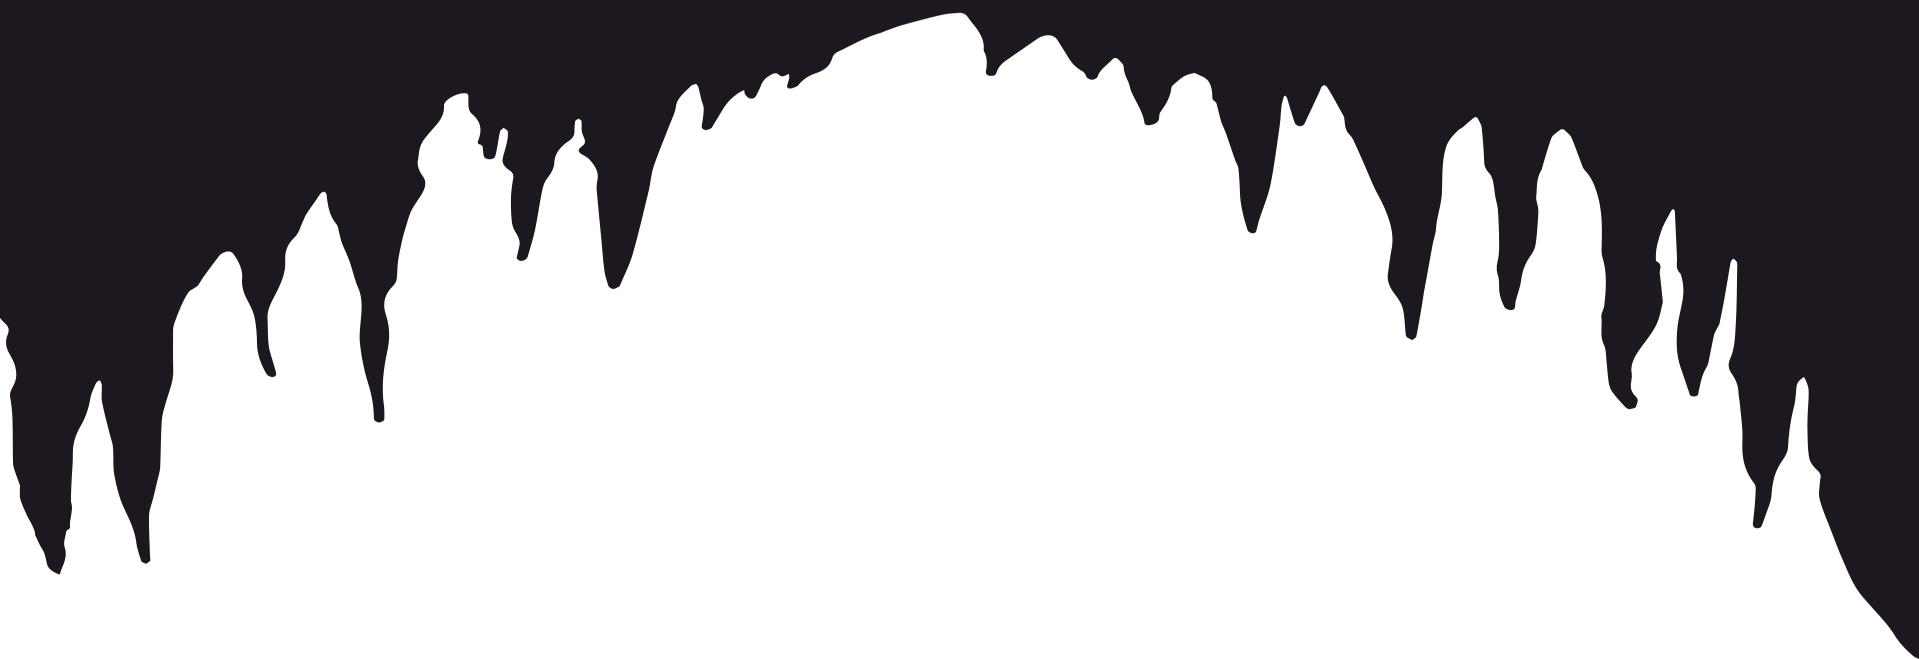
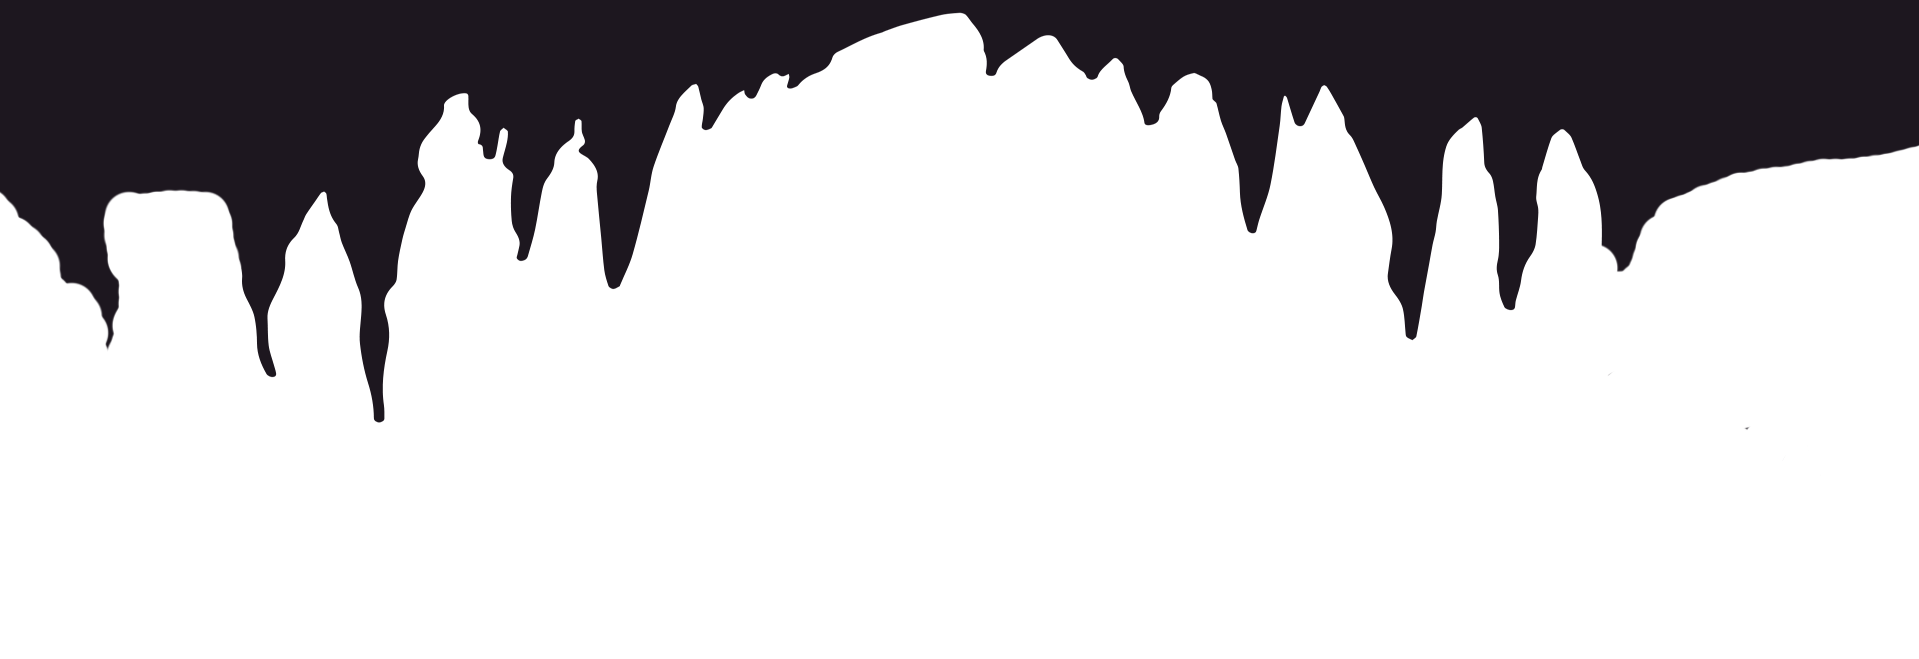
changed some caveular features

Changed region(s): [[0.8301, 0.2124, 1.0, 1.0], [0.0, 0.2731, 0.123, 0.8801]]

diff --git a/Combo/examples/mystyle.css b/Combo/examples/mystyle.css
@@ -177,7 +177,7 @@ background:#1d181f;
 
 #section3 {
 background: #40362e;
-background-image: url(imgs/cavetopsmoosh2.png),url(imgs/riverbottom2.png);
+background-image: url(imgs/cavetopsmoosh5.png),url(imgs/riverbottom3.png);
 background-repeat: no-repeat;
 background-size: contain;
 background-position: top,bottom;
